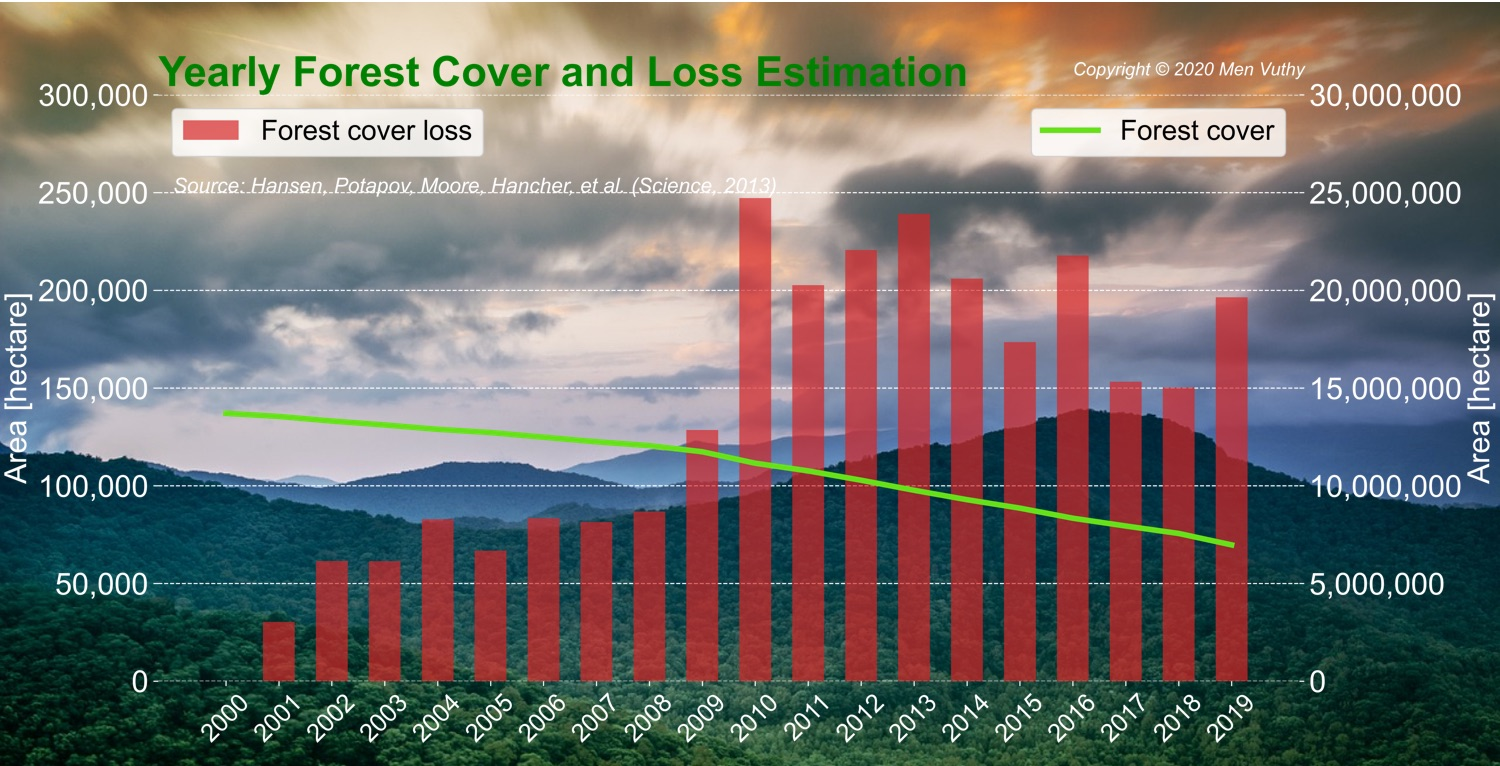
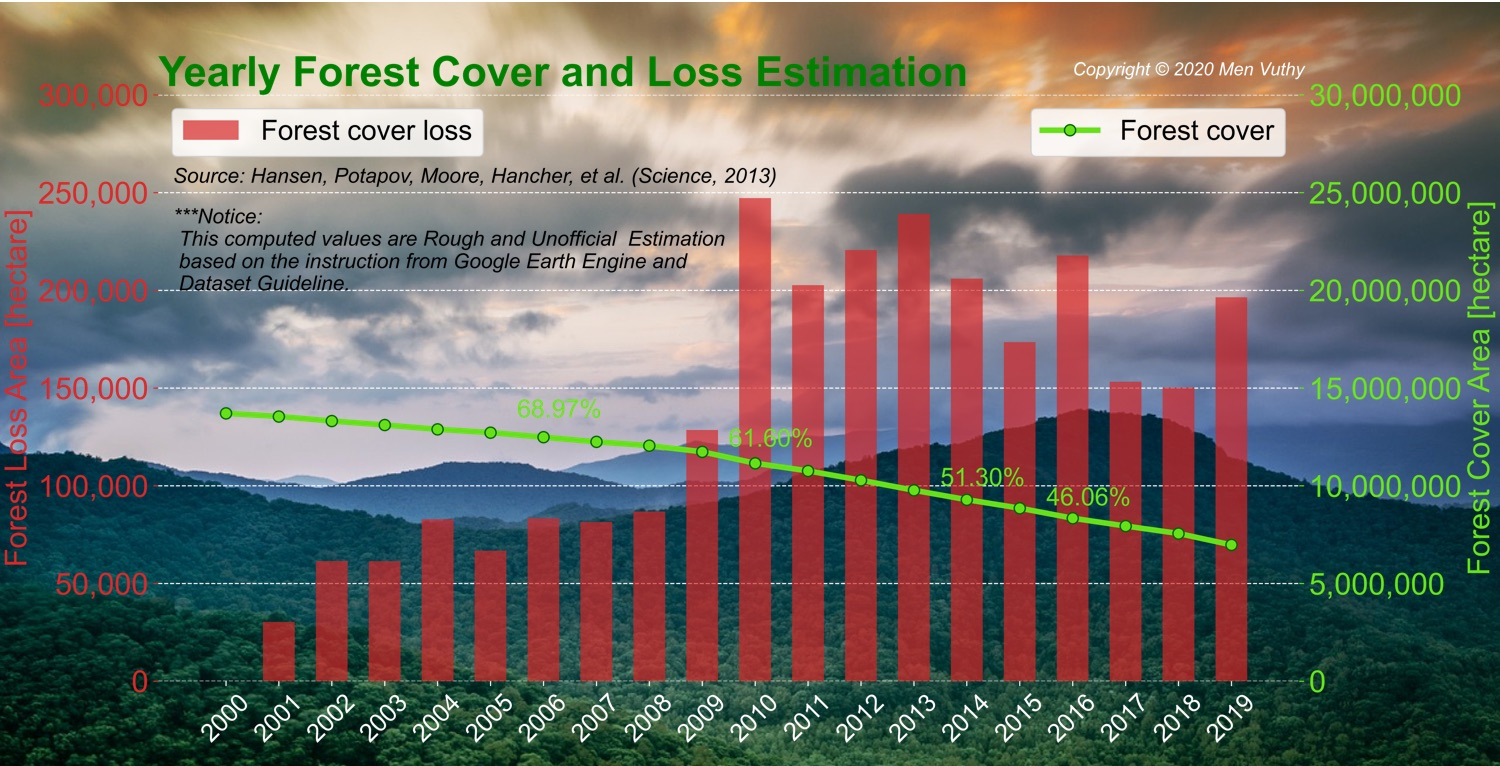
k

diff --git a/_posts/2020-08-28-forest-cover-cambo.md b/_posts/2020-08-28-forest-cover-cambo.md
@@ -120,7 +120,7 @@ Figure 4 shows the image of forest gain between 2000 and 2012 of the whole Cambo
 Forest loss was defined as a stand-replacement disturbance or the complete removal of tree cover canopy at the Landsat pixel scale (2). The estimation yearly forest cover and loss are shown in figures below (Figure 5):
 {: style="text-align: justify;"}
 
-**Warning Notice:** All computed values here are the rough estimation based on the instruction from [Google Earth Engine](https://developers.google.com/earth-engine/tutorials/tutorial_forest_03a). The user should be concerned of the accuracy with the actual data in their region of interest.
+**Warning Notice:** All computed values here are the [rough and unoffical](#) calculation based on the instruction from [Google Earth Engine](https://developers.google.com/earth-engine/tutorials/tutorial_forest_03a). The user should be concerned of the accuracy with the actual data in their region of interest and the comparison with the official data source.
 {: .notice--danger}
 {% include gallery id="gallery4" caption="Figure 5: Yearly forest cover and loss estimated for Cambodia." %}
 
